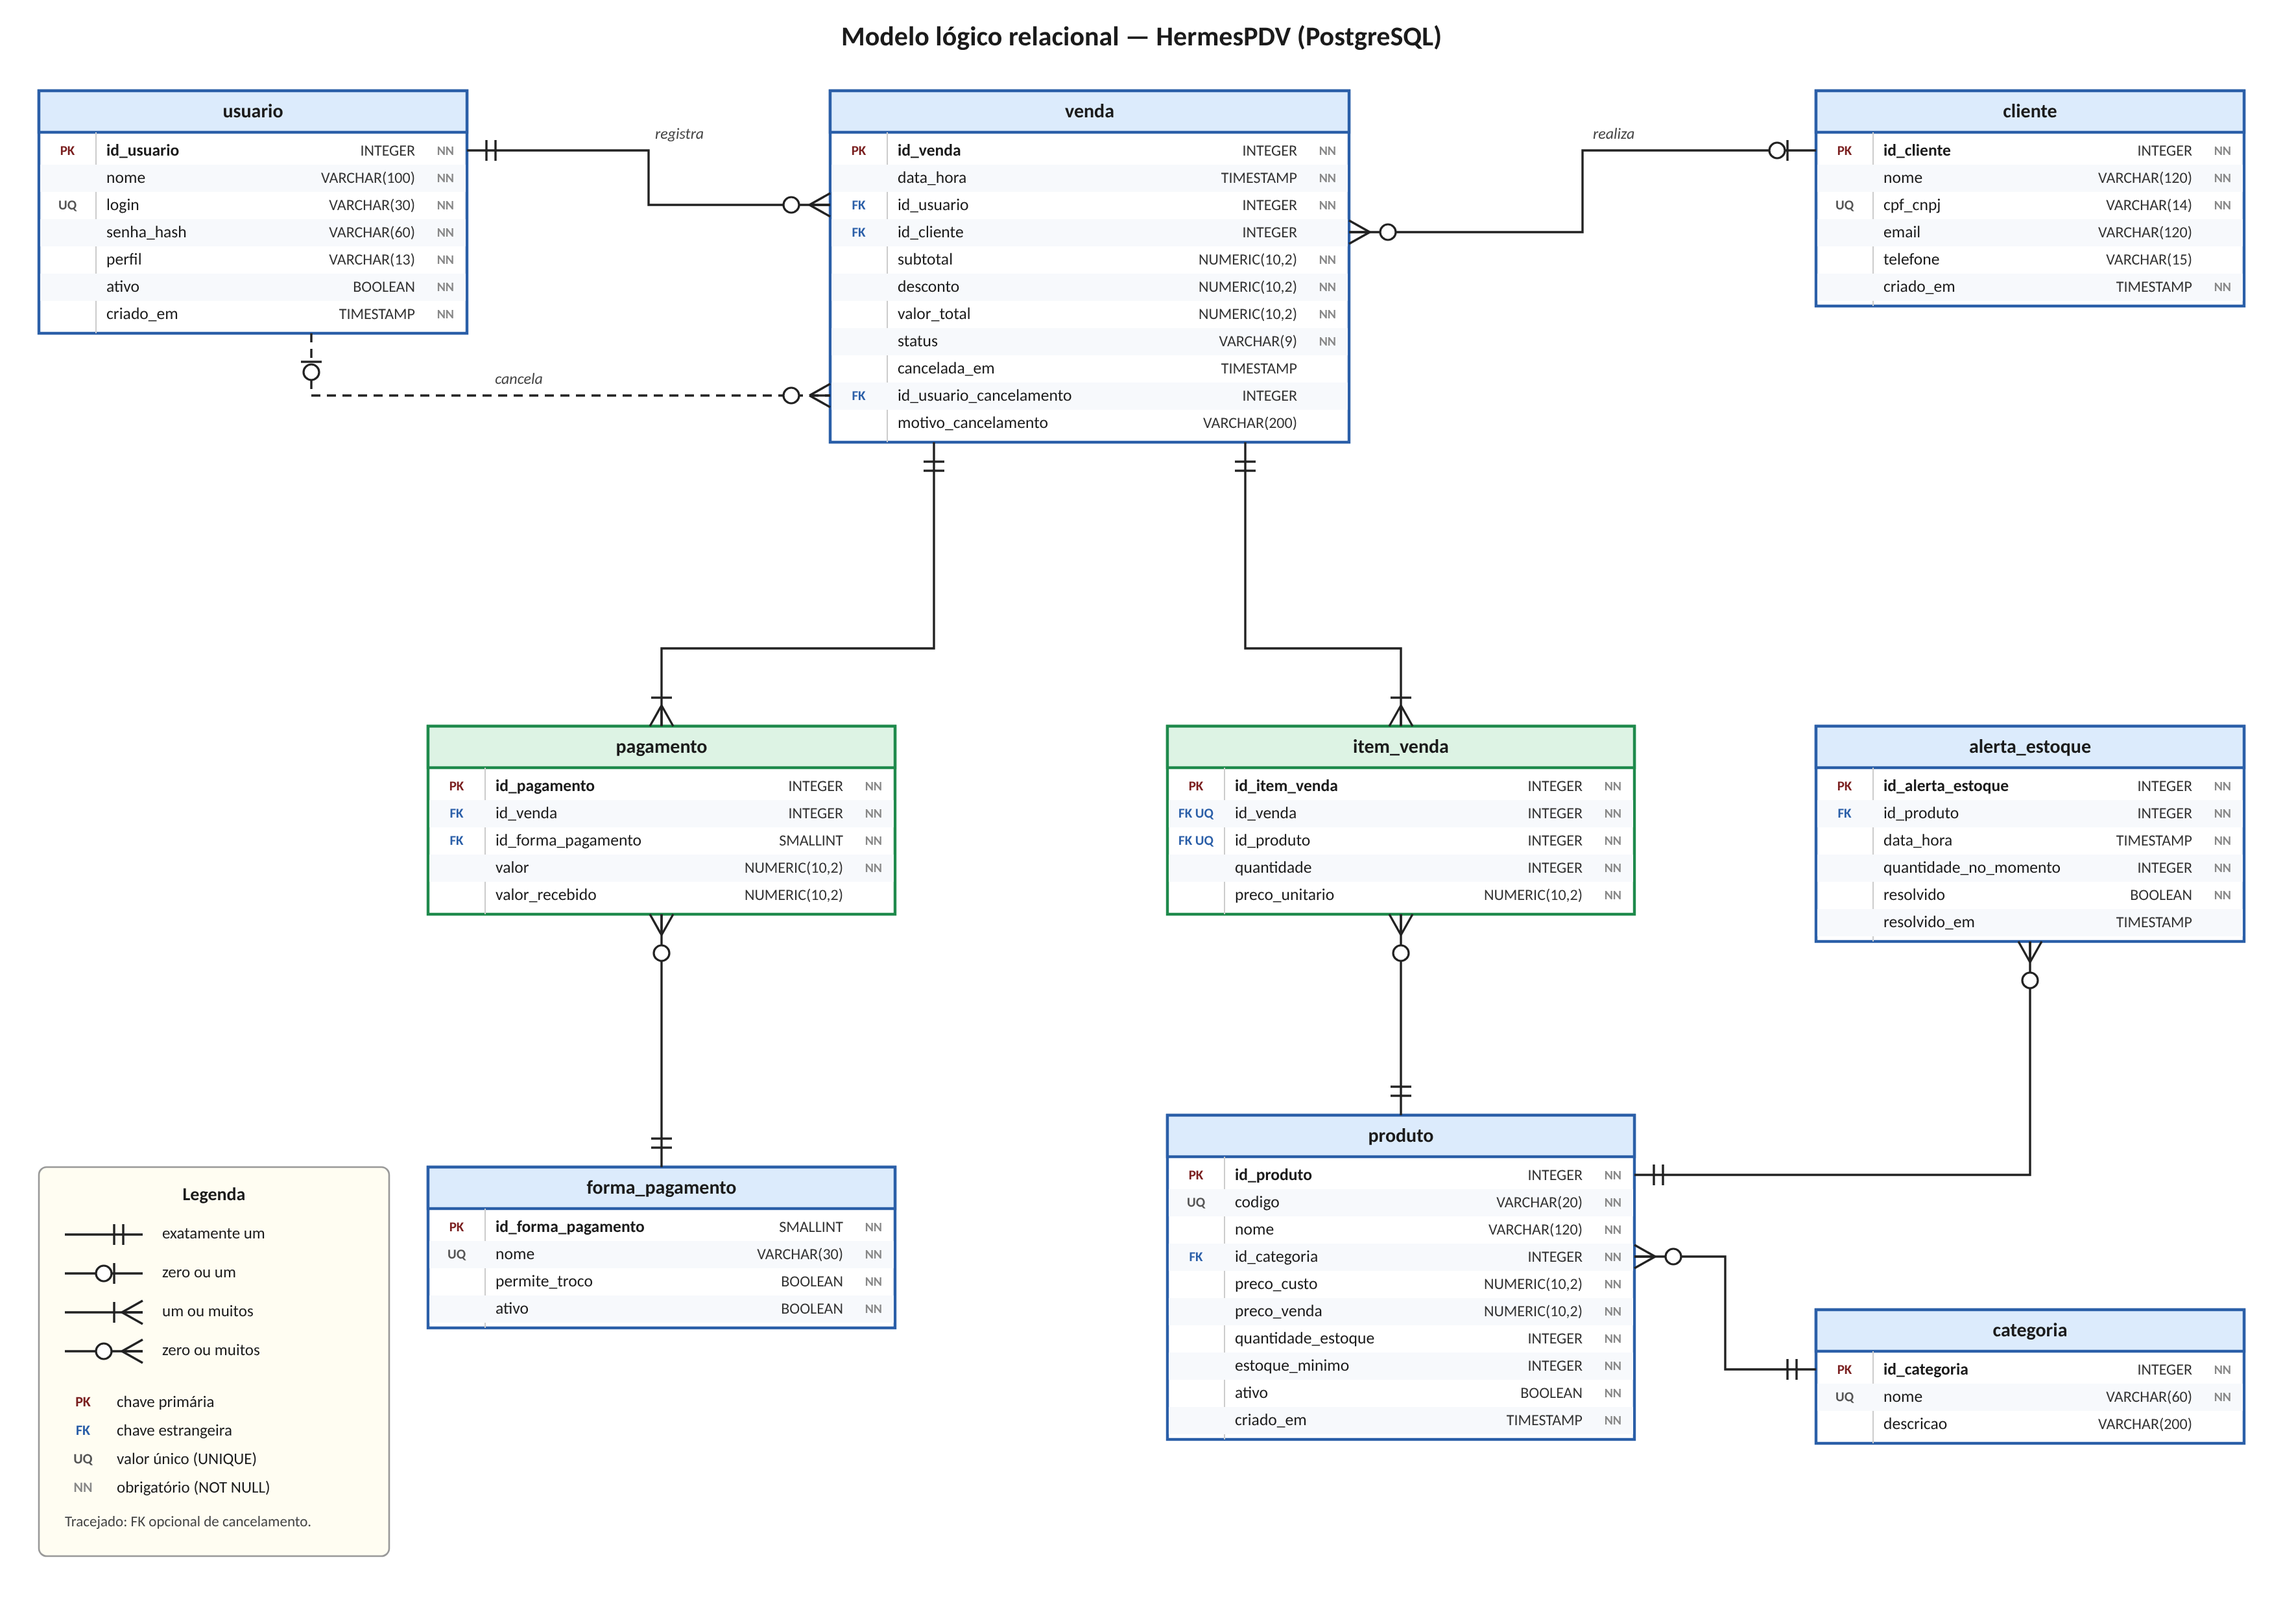
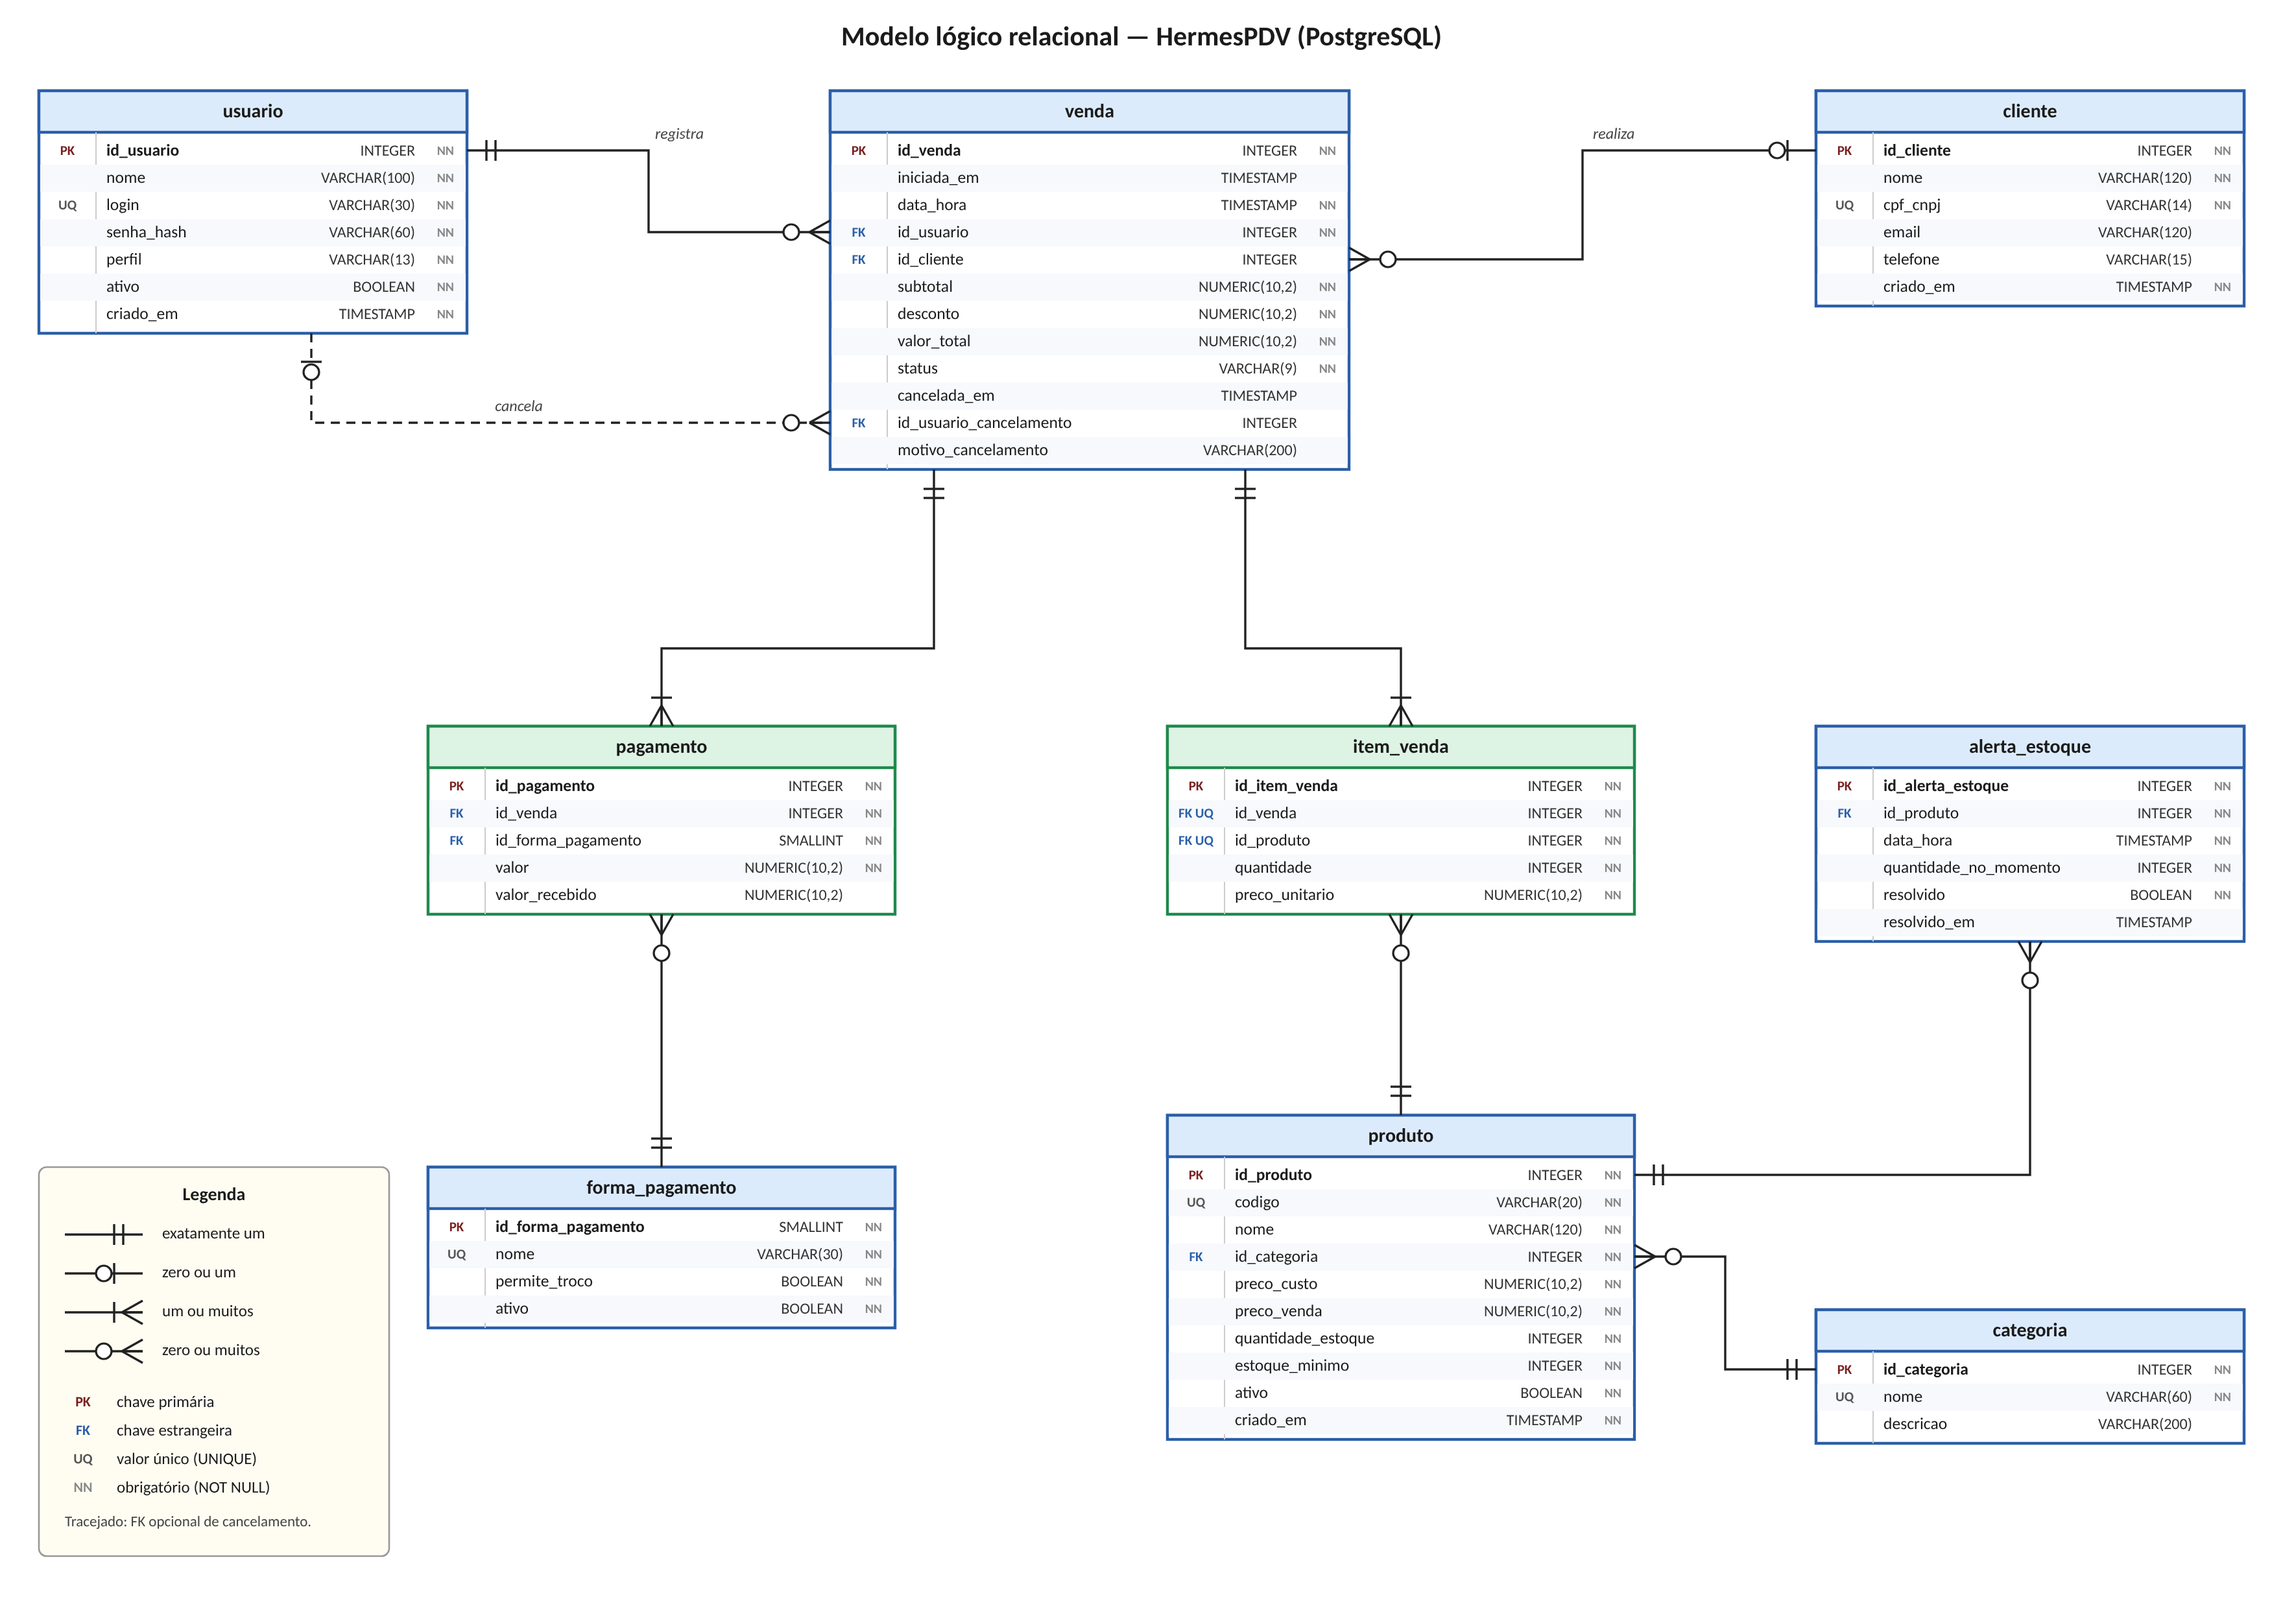
Add files via upload

Changed region(s): [[0.3438, 0.1242, 0.4688, 0.3105], [0.5312, 0.1552, 0.5938, 0.3105], [0.2812, 0.1242, 0.375, 0.1552]]

diff --git a/frontend/js/pdv.js b/frontend/js/pdv.js
@@ -10,16 +10,19 @@
   let formas = [];
   let encontrados = [];
   let foco = -1;
+  let pagando = false;            // D01: na etapa de pagamento o carrinho fica travado
 
   formas = await App.api('/formas-pagamento');
   $('#forma').innerHTML = formas.map((f) => `<option value="${f.id_forma_pagamento}">${App.escapar(f.nome)}</option>`).join('');
 
   // ---------- totais (em centavos, para não errar arredondamento) ----------
   const subtotal = () => [...carrinho.values()].reduce((s, i) => s + i.quantidade * App.centavos(i.produto.preco_venda), 0);
-  const desconto = () => {
+  // D02: desconto inválido não é mais ignorado em silêncio
+  const descontoDigitado = () => {
     const d = $('#desconto').value.trim() ? App.centavos($('#desconto').value) : 0;
-    return Number.isFinite(d) && d > 0 ? d : 0;
+    return Number.isFinite(d) && d >= 0 && d <= subtotal() ? d : null;
   };
+  const desconto = () => descontoDigitado() || 0;
   const total = () => Math.max(subtotal() - desconto(), 0);
   const pago = () => pagamentos.reduce((s, p) => s + p.valor, 0);
 
@@ -28,19 +31,22 @@
       <tr>
         <td><strong>${App.escapar(p.nome)}</strong><br><small class="rodape">${App.escapar(p.codigo)} · estoque ${p.quantidade_estoque}</small></td>
         <td><span class="qtd-ctrl">
-          <button type="button" data-menos="${p.id_produto}" aria-label="Diminuir">−</button>
+          <button type="button" data-menos="${p.id_produto}" aria-label="Diminuir" ${pagando ? 'disabled' : ''}>−</button>
           <span>${q}</span>
-          <button type="button" data-mais="${p.id_produto}" aria-label="Aumentar">+</button></span></td>
+          <button type="button" data-mais="${p.id_produto}" aria-label="Aumentar" ${pagando ? 'disabled' : ''}>+</button></span></td>
         <td class="num esconde-celular">${App.moeda(p.preco_venda)}</td>
         <td class="num">${App.moeda((q * App.centavos(p.preco_venda)) / 100)}</td>
-        <td class="acoes"><button class="btn mini contorno-perigo" data-remover="${p.id_produto}" aria-label="Remover">✕</button></td>
+        <td class="acoes"><button class="btn mini contorno-perigo" data-remover="${p.id_produto}" aria-label="Remover" ${pagando ? 'disabled' : ''}>✕</button></td>
       </tr>`).join('');
     $('#itens').innerHTML = linhas;
     $('#vazio').hidden = carrinho.size > 0;
     $('#subtotal').textContent = App.moeda(subtotal() / 100);
     $('#valorDesconto').textContent = '− ' + App.moeda(desconto() / 100);
     $('#total').textContent = App.moeda(total() / 100);
-    $('#btnPagar').disabled = carrinho.size === 0;
+    const invalido = descontoDigitado() === null;
+    $('#desconto').classList.toggle('invalido', invalido);
+    $('#erroDesconto').hidden = !invalido;
+    $('#btnPagar').disabled = carrinho.size === 0 || invalido;
   }
 
   function adicionar(produto, qtd) {
@@ -110,7 +116,7 @@
 
   $('#itens').addEventListener('click', (ev) => {
     const t = ev.target.closest('button');
-    if (!t) return;
+    if (!t || pagando) return;
     const id = Number(t.dataset.mais || t.dataset.menos || t.dataset.remover);
     const item = carrinho.get(id);
     if (!item) return;
@@ -120,12 +126,7 @@
     desenharCarrinho();
   });
 
-  $('#desconto').addEventListener('input', () => {
-    desenharCarrinho();
-    const d = $('#desconto').value.trim() ? App.centavos($('#desconto').value) : 0;
-    if (!Number.isFinite(d) || d < 0) App.aviso('Desconto inválido.', 'erro');
-    else if (d > subtotal()) App.aviso('O desconto não pode ser maior que o subtotal.', 'erro');
-  });
+  $('#desconto').addEventListener('input', desenharCarrinho);
 
   // ---------- cliente (opcional) ----------
   let esperaCli;
@@ -180,7 +181,10 @@
   }
 
   $('#btnPagar').addEventListener('click', () => {
-    if (desconto() > subtotal()) return App.aviso('O desconto não pode ser maior que o subtotal.', 'erro');
+    if (descontoDigitado() === null) return;
+    pagando = true;
+    $('#desconto').disabled = true;
+    desenharCarrinho();
     $('#passoResumo').hidden = true;
     $('#passoPagamento').hidden = false;
     $('#etapa').textContent = '2. Pagamento';
@@ -190,6 +194,9 @@
     $('#forma').focus();
   });
   $('#btnVoltar').addEventListener('click', () => {
+    pagando = false;
+    $('#desconto').disabled = false;
+    desenharCarrinho();
     $('#passoResumo').hidden = false;
     $('#passoPagamento').hidden = true;
     $('#etapa').textContent = '1. Itens';

diff --git a/frontend/pages/pdv.html b/frontend/pages/pdv.html
@@ -39,7 +39,8 @@
             <div id="resultadosCliente" class="resultados" style="position:static" hidden></div>
             <div id="clienteEscolhido" class="cliente-escolhido" hidden></div>
           </div>
-          <div class="bloco"><label>Desconto (R$)<input id="desconto" inputmode="decimal" placeholder="0,00"></label></div>
+          <div class="bloco"><label>Desconto (R$)<input id="desconto" inputmode="decimal" placeholder="0,00"></label>
+            <small id="erroDesconto" class="erro-campo" hidden>Desconto inválido: use um valor entre 0 e o subtotal (ex.: 2,50).</small></div>
           <div class="linha"><span>Subtotal</span><span id="subtotal">R$ 0,00</span></div>
           <div class="linha"><span>Desconto</span><span id="valorDesconto">R$ 0,00</span></div>
           <div class="linha total"><span>Total</span><span id="total">R$ 0,00</span></div>

diff --git a/frontend/css/estilo.css b/frontend/css/estilo.css
@@ -204,3 +204,9 @@ body.login { min-height: 100vh; display: flex; align-items: center; justify-cont
 /* ajustes finos */
 .filtros label.check { flex: 0 0 auto; min-width: 0; align-self: center; padding-bottom: 8px; }
 td.nw { white-space: nowrap; }
+
+/* Aula 7: campo inválido (D02) e botões travados durante o pagamento (D01) */
+input.invalido { border-color: #c0392b; box-shadow: 0 0 0 3px rgba(192, 57, 43, .15); }
+.erro-campo { display: block; color: #b03a2e; font-size: .82rem; margin-top: 4px; }
+.erro-campo[hidden] { display: none; }
+.qtd-ctrl button:disabled, .acoes .btn:disabled { opacity: .35; cursor: not-allowed; }

diff --git a/frontend/pages/relatorios.html b/frontend/pages/relatorios.html
@@ -13,7 +13,7 @@
     <header class="topo">
       <div><h1>Relatório de vendas</h1><p class="subtitulo" id="periodoTexto"></p></div>
       <div class="nao-imprimir" style="display:flex;gap:8px;flex-wrap:wrap">
-        <a id="btnCsv" class="btn" href="#">Exportar CSV (Excel)</a>
+        <a id="btnCsv" class="btn" href="/api/relatorios/vendas.csv">Exportar CSV (Excel)</a>
         <button id="btnPdf" class="btn">Imprimir / salvar PDF</button>
       </div>
     </header>

diff --git a/frontend/js/login.js b/frontend/js/login.js
@@ -3,7 +3,7 @@ const form = document.getElementById('formLogin');
 const erro = document.getElementById('erro');
 
 if (new URLSearchParams(location.search).get('expirou')) {
-  erro.textContent = 'Sua sessão terminou. Entre novamente.';
+  erro.textContent = 'Entre com seu usuário e senha para continuar.';
   erro.hidden = false;
 }
 
